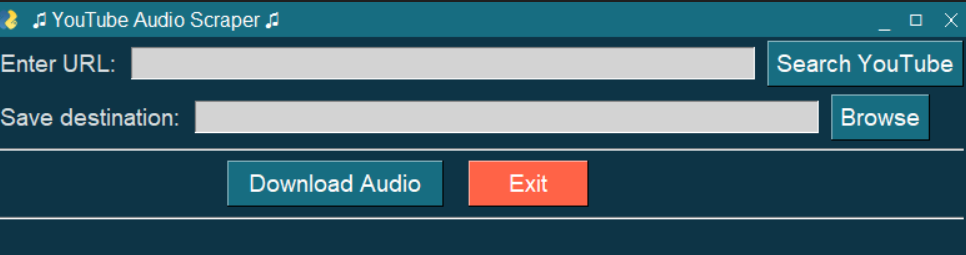
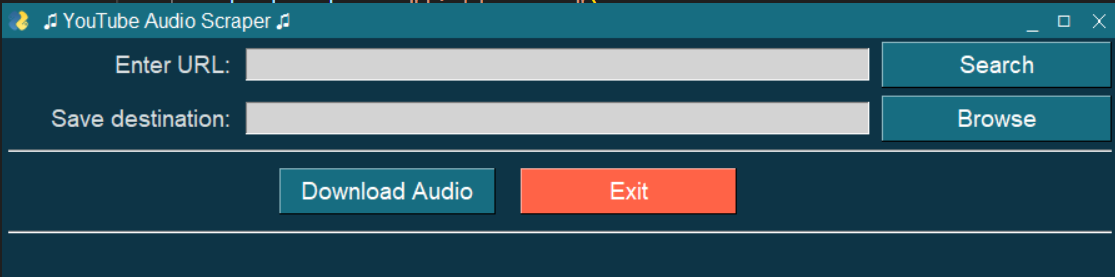
updated gui element pos and fixed text colour bug

Changed region(s): [[0.0, 0.0, 1.0, 0.8784], [0.9317, 0.0549, 0.9938, 0.1098]]

diff --git a/audioscraper.py b/audioscraper.py
@@ -16,12 +16,12 @@ def generateLayout():
     }
 
     layout = [
-        [sg.Text("Enter URL:", font=('Arial', 14)), sg.Input(key="-URL-", **input_style), sg.Button("Search YouTube")],
-        [sg.Text("Save destination:", font=('Arial', 14)), sg.Input(key="-DEST-", **input_style), sg.FolderBrowse()],
+        [sg.Text("Enter URL:", font=('Arial', 14),  s = 16, justification="right"), sg.Input(key="-URL-", **input_style), sg.Button("Search", size=16)],
+        [sg.Text("Save destination:", font=('Arial', 14),  s = 16, justification="right"), sg.Input(key="-DEST-", **input_style), sg.FolderBrowse(size = 16)],
         [sg.HorizontalSeparator()],
-        [sg.Text('', size=(15, 1)), sg.Button("Download Audio", pad=(10, 5), size=(15, 1)), sg.Exit("Exit", button_color = ("white", "tomato"), pad=(10, 5), size=(8, 1))],
+        [sg.Text('', size=(18, 1)), sg.Button("Download Audio", pad=(10, 10), size=(15, 1)), sg.Exit("Exit", button_color = ("white", "tomato"), pad=(10, 10), size=(15, 1))],
         [sg.HorizontalSeparator()],
-        [sg.Text("", key="-STATUS-", text_color='light green')]
+        [sg.Text('', size=(18, 1)), sg.Text("", key="-STATUS-", text_color='light green', s=30, justification="right")]
     ]
 
     return layout
@@ -54,12 +54,11 @@ def downloadAudio(window, url, download_directory):
         clean_filename = cleanFilename(video.title)
         file_path = os.path.join(download_directory, f"{clean_filename}.mp3")
         stream.download(output_path=download_directory, filename=f"{clean_filename}.mp3")
-        window["-STATUS-"].update(f"Successfully downloaded audio: {clean_filename}.mp3")
+        window["-STATUS-"].update(f"Successfully downloaded audio!",text_color = "light green")
         window["-URL-"].update(value="")
 
     except Exception as e:
-        clean_filename = ""
-        window["-STATUS-"].update(f"Error downloading {clean_filename}.mp3", text_color='tomato')
+        window["-STATUS-"].update(f"Error downloading requested audio!", text_color='tomato')
 
 def main():
     windowTheme()
